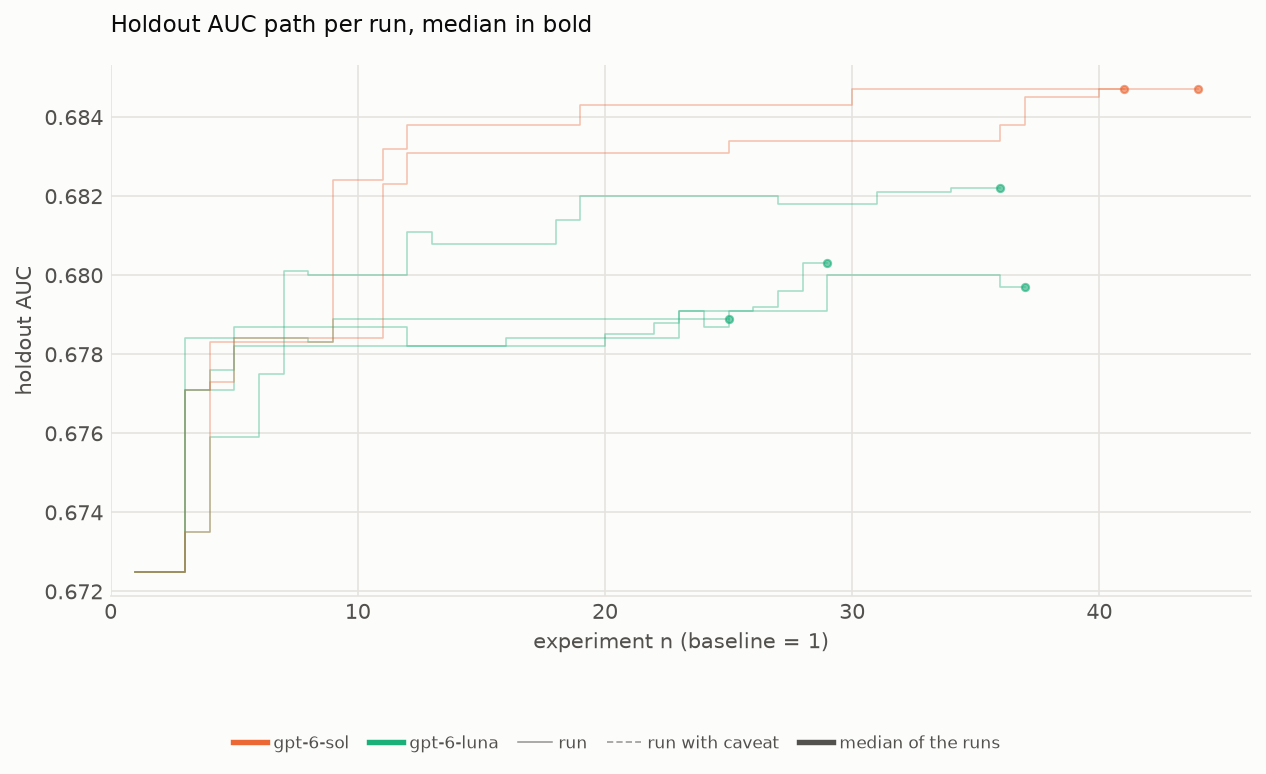
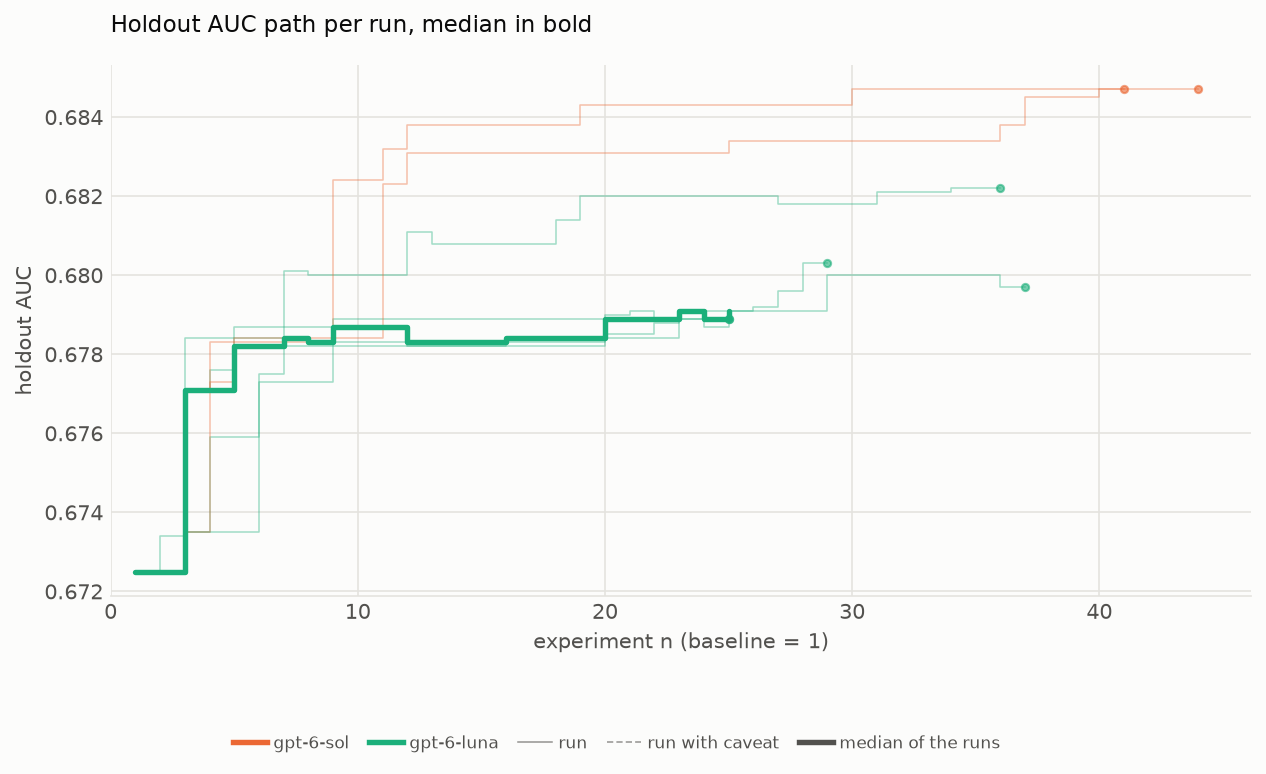
Summary with luna6_n20 runs 1-5
README results block and SUMMARY plots redrawn by /xgb-summary. With five
runs gpt-6-luna now has its interval, percentile marks and median path.

Changed region(s): [[0.1848, 0.3721, 0.5853, 0.4961], [0.0924, 0.4961, 0.1848, 0.7442]]

diff --git a/README.md b/README.md
@@ -28,9 +28,9 @@ All runs with codex-cli 0.160.0 at effort max, a 24 GB container memory cap and 
 | model | groups | valid runs | excluded | holdout AUC mean | sd | min | median | max |
 |---|---|---|---|---|---|---|---|---|
 | gpt-6-sol | [test1](run-multi/test1/results_summary.md) | 2 | 1 | 0.6847 | 0.0000 | 0.6847 | 0.6847 | 0.6847 |
-| gpt-6-luna | [luna6_n20](run-multi/luna6_n20/results_summary.md) | 4 | 0 | 0.6803 | 0.0014 | 0.6789 | 0.6800 | 0.6822 |
+| gpt-6-luna | [luna6_n20](run-multi/luna6_n20/results_summary.md) | 5 | 0 | 0.6800 | 0.0014 | 0.6789 | 0.6797 | 0.6822 |
 
-No run carries a caveat. One run was excluded: test1-2, after three turns in a row ended with OpenAI's "Selected model is at capacity" error. Group luna6_n20 is in progress, with 4 runs reviewed so far. luna6_n20-1 is valid with a `train_py_review` flag, a false match explained in its `run.md`. All valid runs have the same settings.
+No run carries a caveat. One run was excluded: test1-2, after three turns in a row ended with OpenAI's "Selected model is at capacity" error. Group luna6_n20 is in progress, with 5 runs reviewed so far. luna6_n20-1 is valid with a `train_py_review` flag, a false match explained in its `run.md`. All valid runs have the same settings.
 
 ![Holdout AUC per run](run-multi/SUMMARY/holdout_auc_beeswarm.png)
 <!-- xgb-summary: end -->
